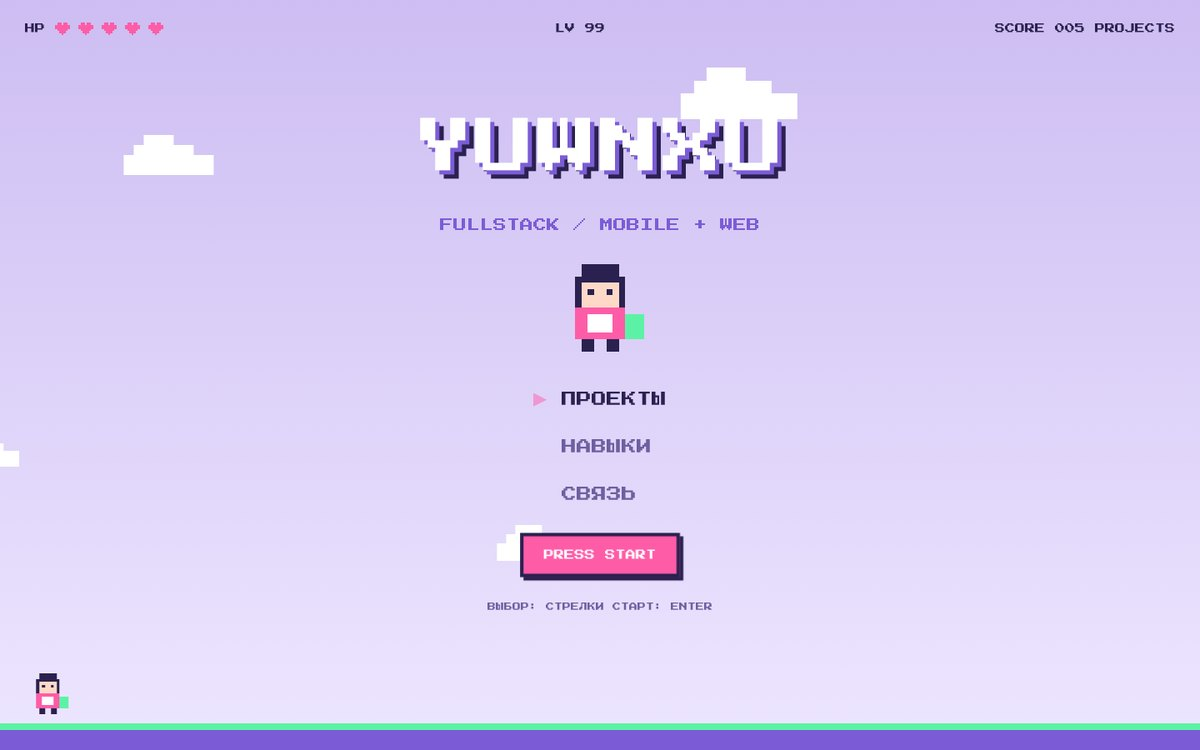
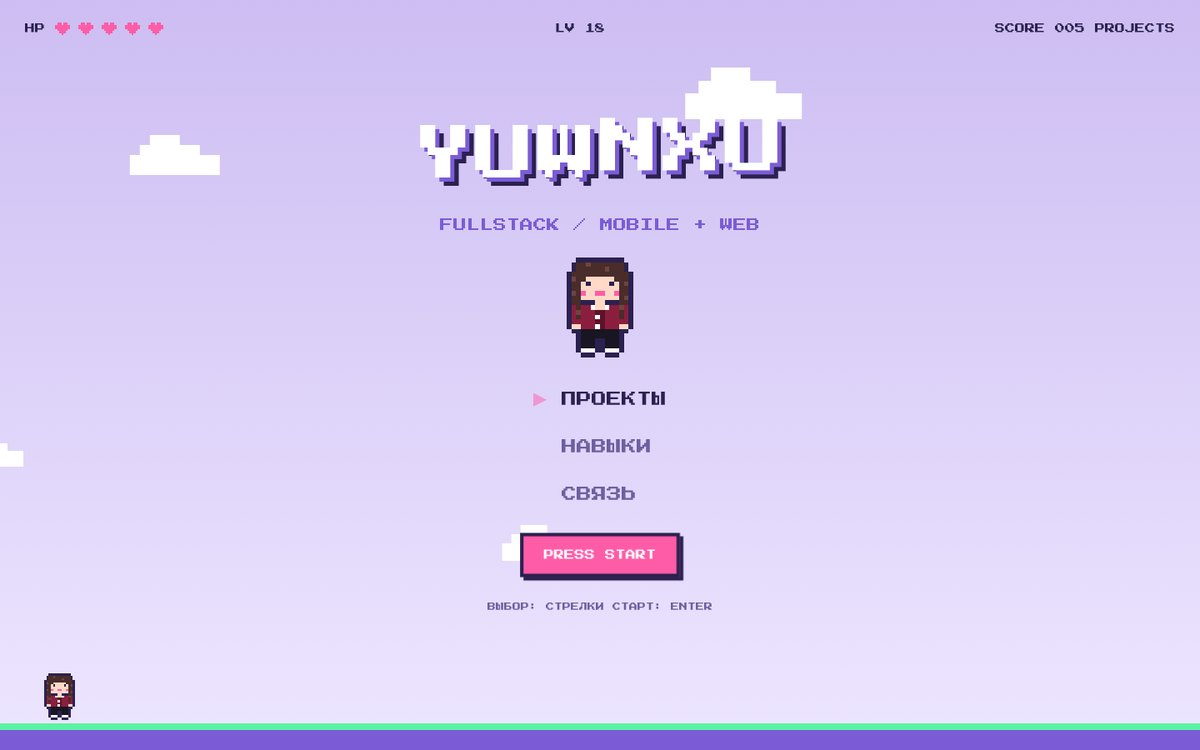
Правки

diff --git a/js/ui/components/sprite.js b/js/ui/components/sprite.js
@@ -1,34 +1,92 @@
 import { svg } from "../../core/dom.js";
 
-const PIXELS = [
-  [5, 1, 6, 2, "#2B2150"],
-  [4, 3, 8, 5, "#2B2150"],
-  [5, 4, 6, 4, "#FFD9C7"],
-  [6, 5, 1, 1, "#2B2150"],
-  [9, 5, 1, 1, "#2B2150"],
-  [4, 8, 8, 5, "#FF5CA8"],
-  [6, 9, 4, 3, "#FFFFFF"],
-  [5, 13, 2, 2, "#2B2150"],
-  [9, 13, 2, 2, "#2B2150"],
-  [12, 9, 1, 2, "#FFD9C7"],
-  [13, 4, 7, 7, "#2B2150"],
-  [14, 5, 5, 5, "#5CF2A6"],
-  [15, 6, 3, 1, "#2B2150"],
-  [15, 8, 2, 1, "#FF5CA8"],
-  [12, 11, 9, 1, "#9F8FDC"],
-  [14, 11, 1, 1, "#E7E0FF"],
-  [16, 11, 1, 1, "#E7E0FF"],
-  [18, 11, 1, 1, "#E7E0FF"],
-  [12, 12, 9, 1, "#2B2150"],
-  [12, 11, 2, 2, "#FFD9C7"],
-];
+const VIEW = { width: 14, height: 21 };
 
-const VIEW = { x: -1, y: 0, width: 21, height: 16 };
+const PIXELS = [
+  [2, 0, 10, 1, "#2B2150"],
+  [1, 1, 1, 2, "#2B2150"],
+  [2, 1, 2, 1, "#4A2C2A"],
+  [4, 1, 1, 1, "#6E453F"],
+  [5, 1, 7, 1, "#4A2C2A"],
+  [12, 1, 1, 2, "#2B2150"],
+  [2, 2, 6, 1, "#4A2C2A"],
+  [8, 2, 1, 1, "#6E453F"],
+  [9, 2, 3, 1, "#4A2C2A"],
+  [0, 3, 1, 12, "#2B2150"],
+  [1, 3, 12, 1, "#4A2C2A"],
+  [13, 3, 1, 12, "#2B2150"],
+  [1, 4, 1, 1, "#6E453F"],
+  [2, 4, 2, 1, "#4A2C2A"],
+  [4, 4, 6, 1, "#FFD9C7"],
+  [10, 4, 3, 1, "#4A2C2A"],
+  [1, 5, 2, 2, "#4A2C2A"],
+  [3, 5, 1, 1, "#FFD9C7"],
+  [4, 5, 1, 1, "#2B2150"],
+  [5, 5, 4, 1, "#FFD9C7"],
+  [9, 5, 1, 1, "#2B2150"],
+  [10, 5, 1, 1, "#FFD9C7"],
+  [11, 5, 1, 1, "#4A2C2A"],
+  [12, 5, 1, 1, "#6E453F"],
+  [3, 6, 8, 1, "#FFD9C7"],
+  [11, 6, 2, 2, "#4A2C2A"],
+  [1, 7, 1, 1, "#6E453F"],
+  [2, 7, 1, 1, "#4A2C2A"],
+  [3, 7, 1, 1, "#FF5CA8"],
+  [4, 7, 2, 1, "#FFD9C7"],
+  [6, 7, 2, 1, "#FF5CA8"],
+  [8, 7, 2, 1, "#FFD9C7"],
+  [10, 7, 1, 1, "#FF5CA8"],
+  [1, 8, 2, 2, "#4A2C2A"],
+  [3, 8, 8, 1, "#FFD9C7"],
+  [11, 8, 1, 1, "#4A2C2A"],
+  [12, 8, 1, 1, "#6E453F"],
+  [3, 9, 3, 1, "#2B2150"],
+  [6, 9, 2, 2, "#FFD9C7"],
+  [8, 9, 3, 1, "#2B2150"],
+  [11, 9, 2, 1, "#4A2C2A"],
+  [1, 10, 1, 3, "#8B1E3F"],
+  [2, 10, 1, 1, "#4A2C2A"],
+  [3, 10, 2, 1, "#8B1E3F"],
+  [5, 10, 1, 1, "#FFFFFF"],
+  [8, 10, 1, 1, "#FFFFFF"],
+  [9, 10, 2, 1, "#8B1E3F"],
+  [11, 10, 1, 1, "#6E453F"],
+  [12, 10, 1, 3, "#8B1E3F"],
+  [2, 11, 1, 1, "#6E453F"],
+  [3, 11, 3, 2, "#8B1E3F"],
+  [6, 11, 2, 1, "#5E1228"],
+  [8, 11, 3, 2, "#8B1E3F"],
+  [11, 11, 1, 2, "#4A2C2A"],
+  [2, 12, 1, 1, "#4A2C2A"],
+  [6, 12, 1, 1, "#FFFFFF"],
+  [7, 12, 1, 1, "#5E1228"],
+  [1, 13, 5, 1, "#8B1E3F"],
+  [6, 13, 2, 1, "#5E1228"],
+  [8, 13, 5, 1, "#8B1E3F"],
+  [1, 14, 2, 1, "#FFD9C7"],
+  [3, 14, 3, 1, "#8B1E3F"],
+  [6, 14, 1, 1, "#FFFFFF"],
+  [7, 14, 1, 1, "#5E1228"],
+  [8, 14, 3, 1, "#8B1E3F"],
+  [11, 14, 2, 1, "#FFD9C7"],
+  [1, 15, 2, 1, "#2B2150"],
+  [3, 15, 8, 2, "#1A1523"],
+  [11, 15, 2, 1, "#2B2150"],
+  [2, 16, 1, 4, "#2B2150"],
+  [11, 16, 1, 4, "#2B2150"],
+  [3, 17, 3, 2, "#1A1523"],
+  [6, 17, 2, 3, "#2B2150"],
+  [8, 17, 3, 2, "#1A1523"],
+  [3, 19, 3, 1, "#FFFFFF"],
+  [8, 19, 3, 1, "#FFFFFF"],
+  [3, 20, 3, 1, "#2B2150"],
+  [8, 20, 3, 1, "#2B2150"],
+];
 
 export function createSprite({ size = 96, label = "", className = "" } = {}) {
   const props = {
     class: `sprite ${className}`.trim(),
-    viewBox: `${VIEW.x} ${VIEW.y} ${VIEW.width} ${VIEW.height}`,
+    viewBox: `0 0 ${VIEW.width} ${VIEW.height}`,
     width: Math.round((size * VIEW.width) / VIEW.height),
     height: size,
     "shape-rendering": "crispEdges",
